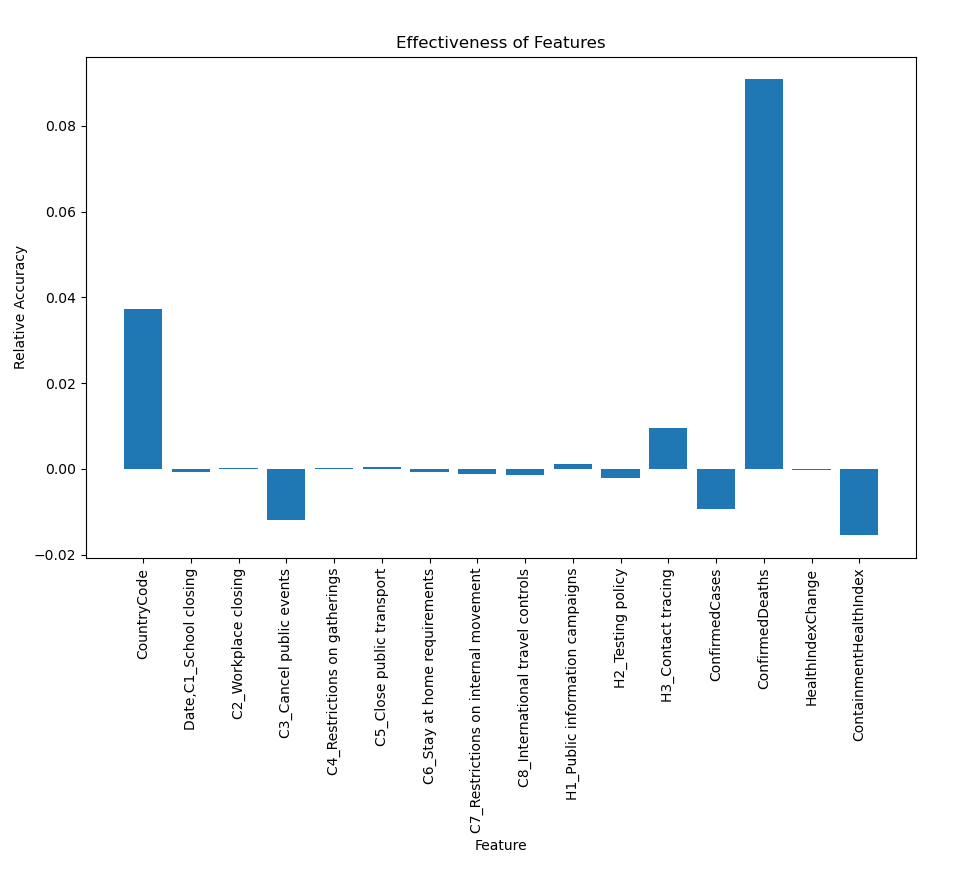
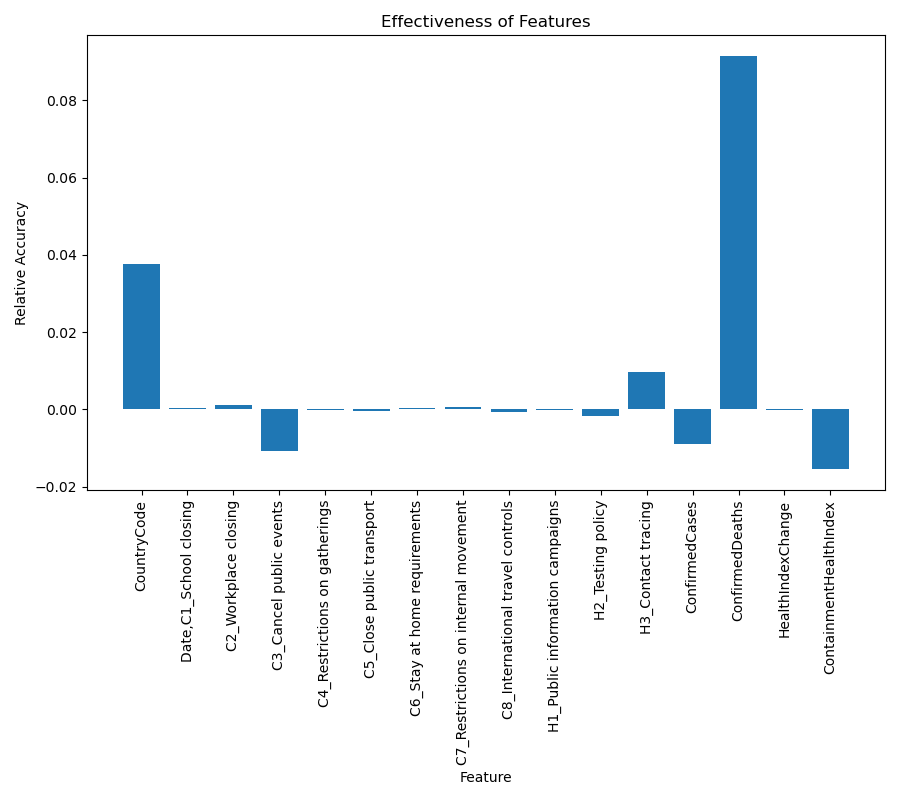
Adjusted size and layout of graphs

diff --git a/src/feature_effectiveness.py b/src/feature_effectiveness.py
@@ -63,14 +63,17 @@ def main():
             objects.append(features[c])
             scores.append(list(avg_effectiveness[c].values())[0]/100)
 
+        plt.figure(figsize=(9,8))
         plt.bar(objects, scores)
         plt.ylabel('Relative Accuracy')
         plt.xlabel('Feature')
         plt.xticks(rotation=90)
         plt.title('Effectiveness of Features')
+        plt.tight_layout()
         output_path = path.join(project_path, "..", f"./outputs/avg_accuracy_features_{dataset['tag']}")
         plt.savefig(output_path)
         plt.clf()
+
     pass
 
 
